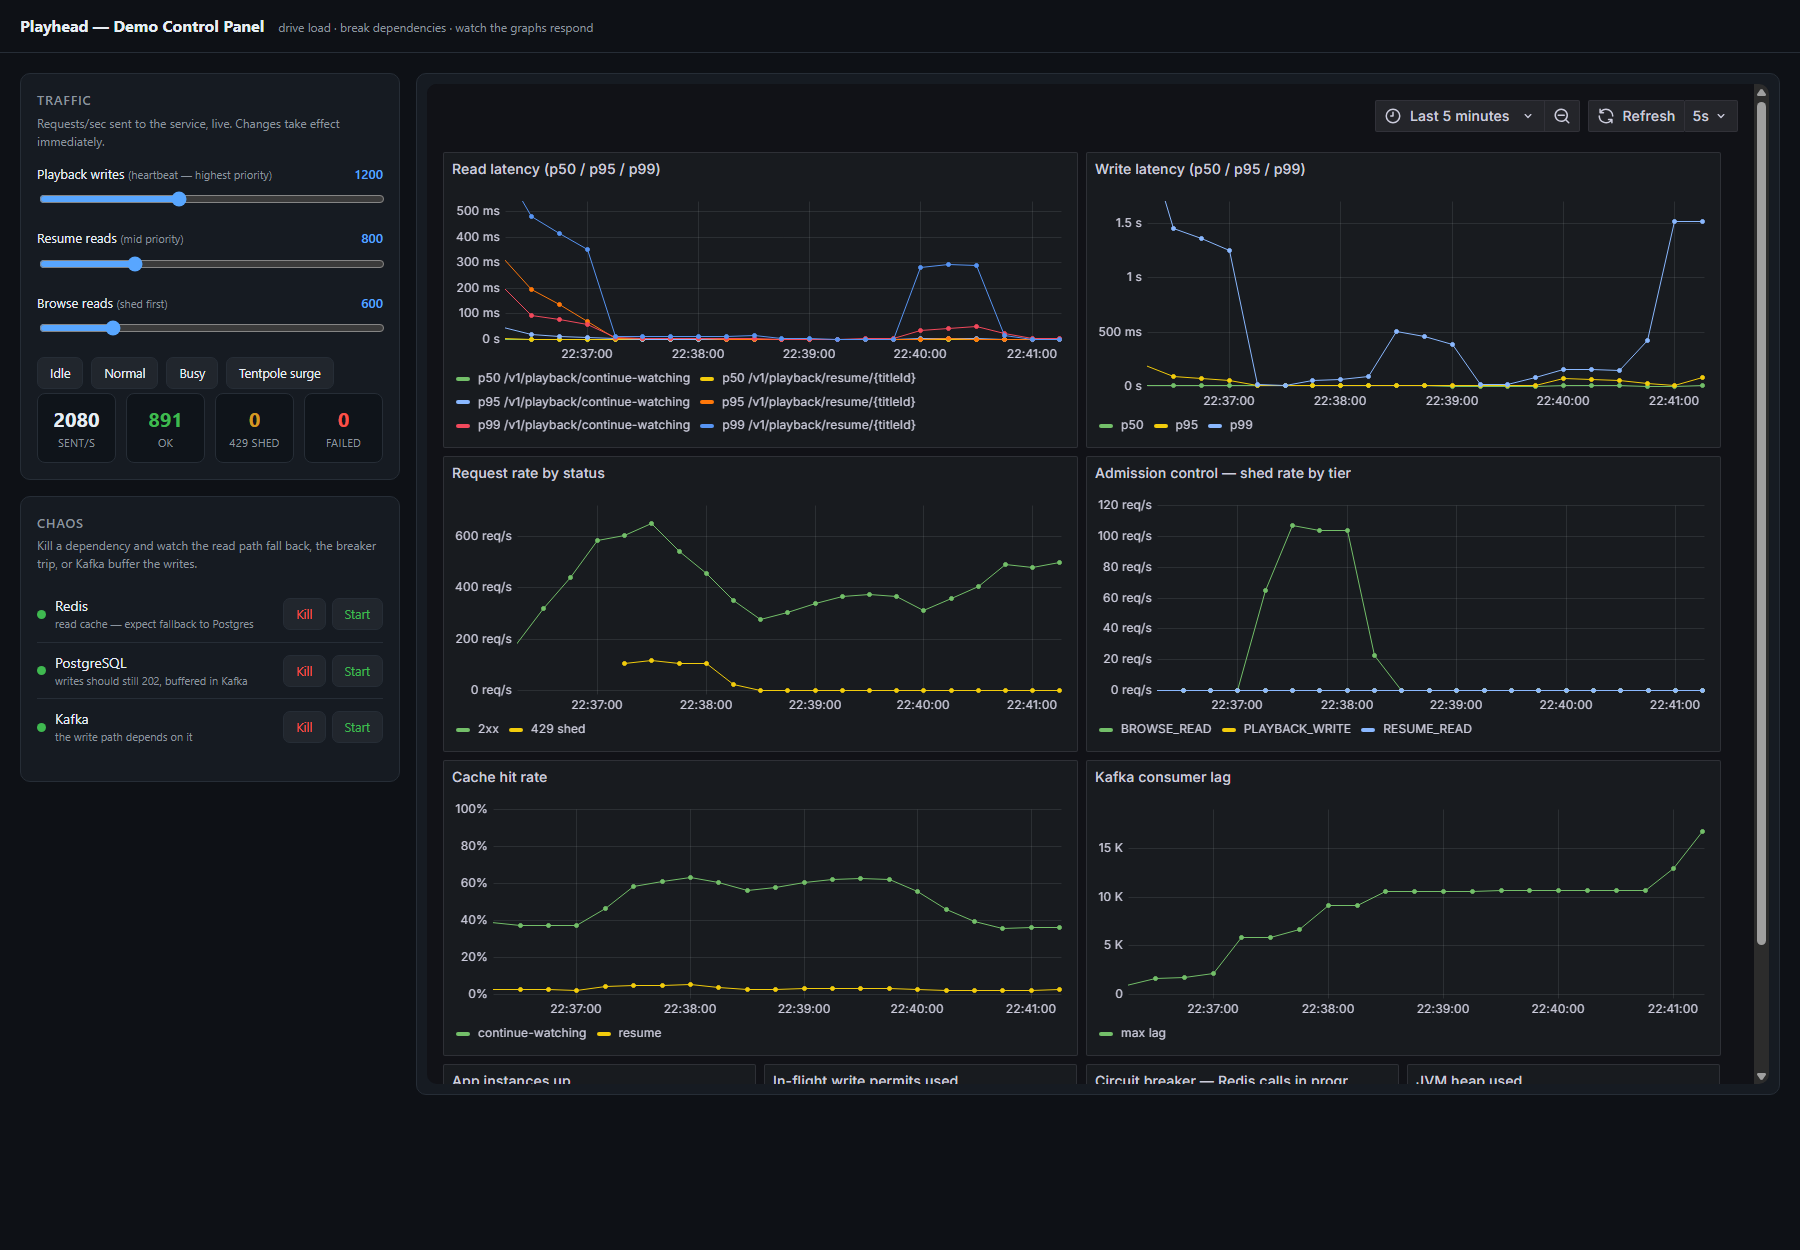
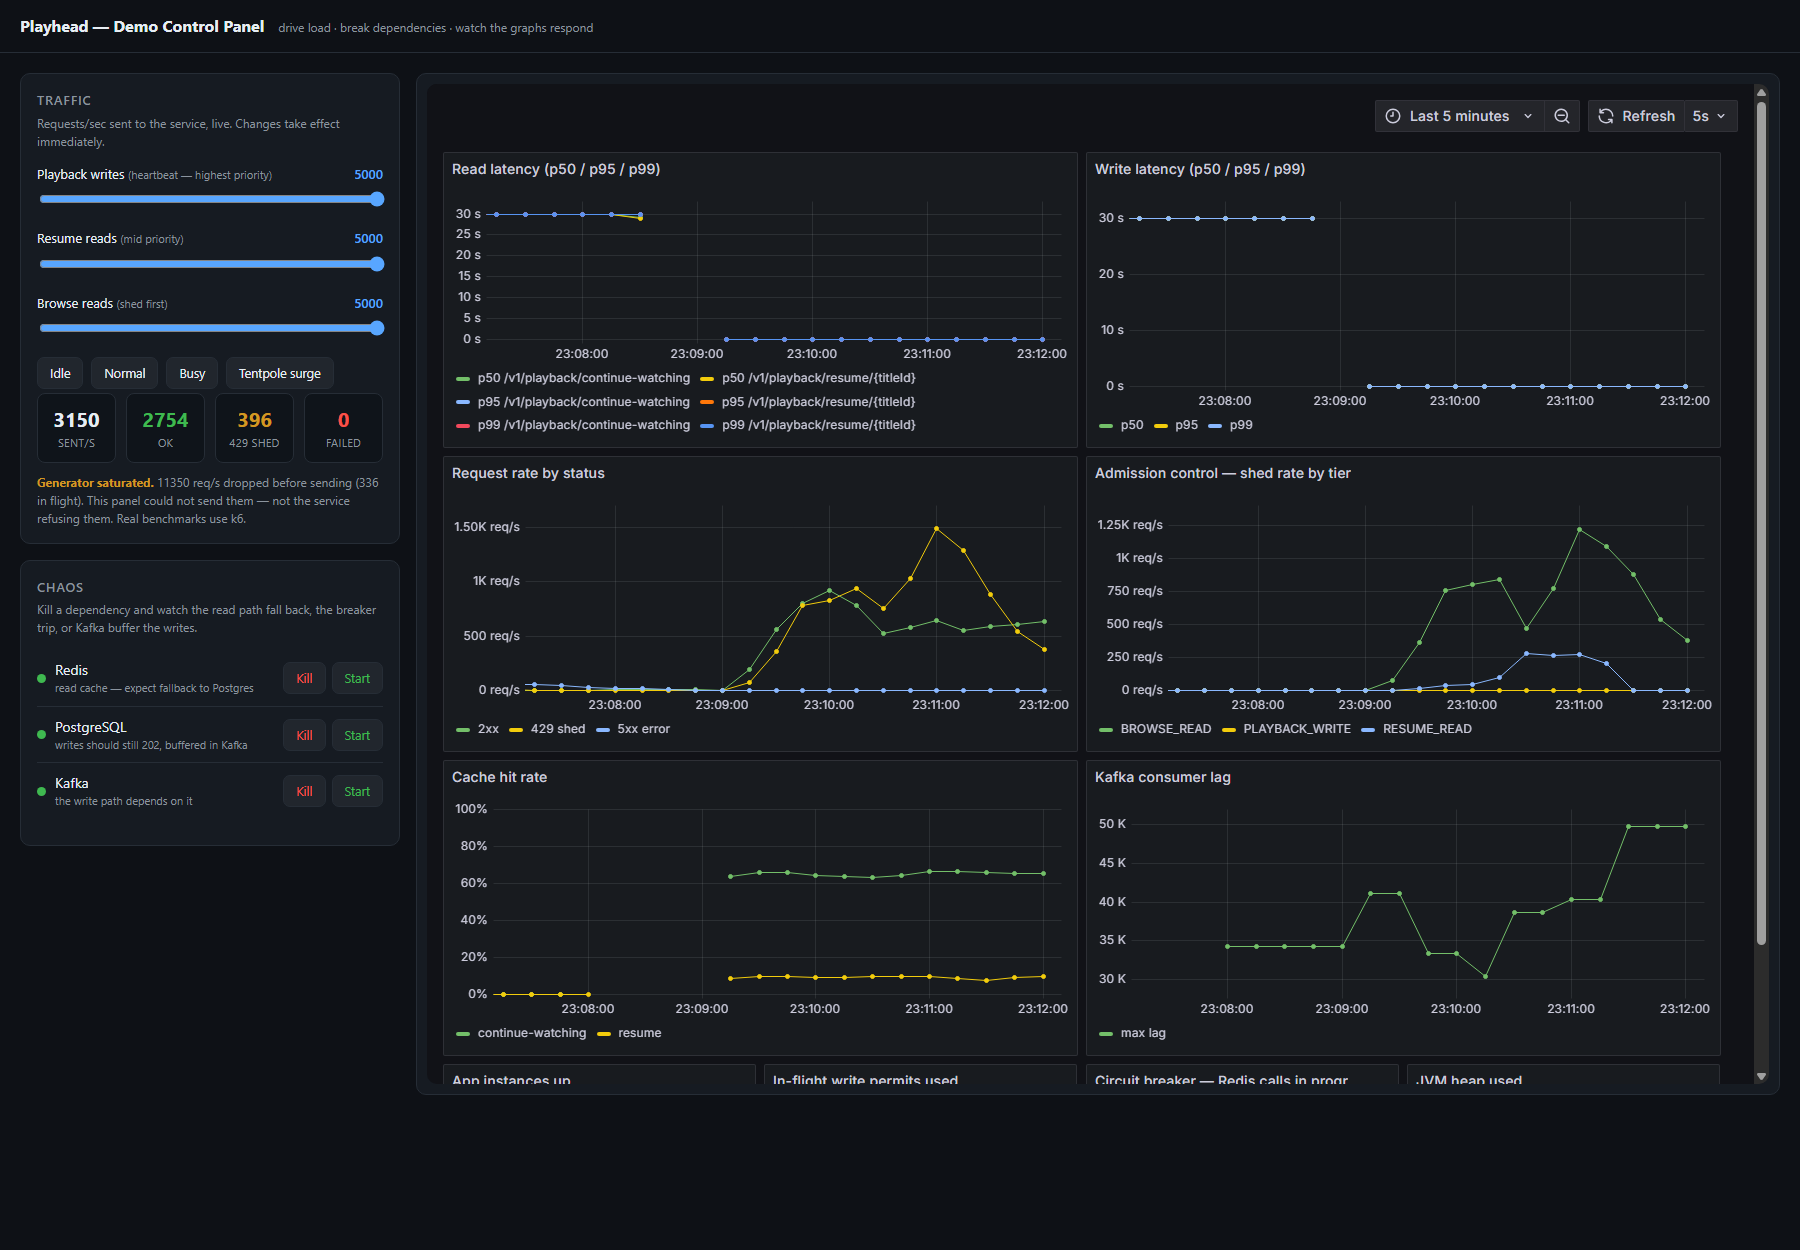
Raise demo sliders to 5k/tier, and give the generator backpressure
Raising the sliders exposed a real bug in the generator: it fired at the
requested rate regardless of whether responses were coming back, so at 15,000
req/s pending requests accumulated until the panel process aborted with
"JavaScript heap out of memory" at a 4 GB heap. It took the stack with it -
Kafka, Postgres and Redis were all SIGKILLed (exit 137, oom flag false, so the
WSL2 VM's kernel rather than any per-container limit) under the memory pressure.

The generator now has the same kind of in-flight cap the service has, for the
same reason. Requests past the cap are dropped and counted as `skipped`, kept
deliberately separate from `shed`: skipped means this panel could not send it,
shed means the service refused it. Merging them would let generator saturation
read as admission control working, which is exactly the number a demo must not
get wrong. The panel surfaces the distinction explicitly when it saturates.

The cap needed sizing, not just adding. 3,000 was the first value and it was
worse than useless - every slot filled with a request the saturated service
would take seconds to answer, so slots never turned over, throughput fell to
zero and latency pinned at the timeout. The panel showed a jammed system rather
than a shedding one. 500 is sized from Little's Law against what this machine
actually serves, and traffic flows.

Verified at the full 15,000 req/s that previously killed everything: 3,150
[…]

diff --git a/demo/server.js b/demo/server.js
@@ -51,19 +51,57 @@ const pick = (a) => a[Math.floor(Math.random() * a.length)];
 /** Live target rates, in requests/sec. Changed by the slider, read by the tickers. */
 const rates = { write: 0, resume: 0, browse: 0 };
 
+/**
+ * The generator needs the same backpressure the service has, for the same reason.
+ *
+ * Without this the tickers keep firing at the requested rate regardless of whether responses are
+ * coming back, so when the target saturates, pending requests pile up in Node's heap until it dies.
+ * That is exactly what happened at 15,000 req/s: the panel process aborted with "JavaScript heap
+ * out of memory" after climbing to a 4 GB heap, and took the demo down with it.
+ *
+ * Requests beyond the cap are dropped and counted as `skipped` rather than queued. Counting them
+ * separately matters: `skipped` means *this panel* could not send it, `shed` means the *service*
+ * refused it. Merging the two would make generator saturation look like admission control working.
+ */
+/*
+ * 3,000 was the first value and it was too high to be useful: every slot filled with a request the
+ * saturated service would take seconds to answer, so slots never freed, throughput fell to zero and
+ * latency pinned at the timeout. The panel showed a jammed system rather than a shedding one.
+ *
+ * 500 is sized from Little's Law against what this machine actually serves — a few thousand
+ * requests/sec at tens of milliseconds — so slots turn over fast enough that traffic keeps flowing
+ * and the service's own 429s stay visible, which is the behaviour worth watching.
+ */
+const MAX_IN_FLIGHT = 500;
+let inFlight = 0;
+
 /** Rolling counts, reset each second, so the panel can show what it is actually achieving. */
-let counters = { sent: 0, ok: 0, shed: 0, failed: 0 };
-let lastSecond = { sent: 0, ok: 0, shed: 0, failed: 0 };
+let counters = { sent: 0, ok: 0, shed: 0, failed: 0, skipped: 0 };
+let lastSecond = { sent: 0, ok: 0, shed: 0, failed: 0, skipped: 0 };
 
 function fire(options, body) {
+  if (inFlight >= MAX_IN_FLIGHT) {
+    counters.skipped++;
+    return;
+  }
   counters.sent++;
+  inFlight++;
+
+  let settled = false;
+  const done = (bucket) => {
+    if (settled) return; // an error after a response would double-count and desync inFlight
+    settled = true;
+    inFlight--;
+    counters[bucket]++;
+  };
+
   const req = http.request({ ...options, agent, host: TARGET.host, port: TARGET.port }, (res) => {
-    if (res.statusCode === 429) counters.shed++;
-    else if (res.statusCode >= 200 && res.statusCode < 400) counters.ok++;
-    else counters.failed++;
+    if (res.statusCode === 429) done('shed');
+    else if (res.statusCode >= 200 && res.statusCode < 400) done('ok');
+    else done('failed');
     res.resume(); // drain, or sockets are never released back to the pool
   });
-  req.on('error', () => counters.failed++);
+  req.on('error', () => done('failed'));
   req.setTimeout(10000, () => req.destroy());
   if (body) req.write(body);
   req.end();
@@ -118,7 +156,7 @@ startTicker('browse', sendBrowse);
 
 setInterval(() => {
   lastSecond = counters;
-  counters = { sent: 0, ok: 0, shed: 0, failed: 0 };
+  counters = { sent: 0, ok: 0, shed: 0, failed: 0, skipped: 0 };
 }, 1000);
 
 function docker(args) {
@@ -167,7 +205,7 @@ const server = http.createServer(async (req, res) => {
   }
 
   if (url.pathname === '/api/status') {
-    return json(res, 200, { rates, lastSecond, containers: await containerStates() });
+    return json(res, 200, { rates, lastSecond, inFlight, containers: await containerStates() });
   }
 
   if (url.pathname === '/api/load' && req.method === 'POST') {

diff --git a/demo/public/index.html b/demo/public/index.html
@@ -67,22 +67,22 @@
 
       <div class="slider">
         <label><span>Playback writes <span class="cap">(heartbeat — highest priority)</span></span><span class="val" id="v-write">0</span></label>
-        <input type="range" id="s-write" min="0" max="3000" step="25" value="0">
+        <input type="range" id="s-write" min="0" max="5000" step="50" value="0">
       </div>
       <div class="slider">
         <label><span>Resume reads <span class="cap">(mid priority)</span></span><span class="val" id="v-resume">0</span></label>
-        <input type="range" id="s-resume" min="0" max="3000" step="25" value="0">
+        <input type="range" id="s-resume" min="0" max="5000" step="50" value="0">
       </div>
       <div class="slider">
         <label><span>Browse reads <span class="cap">(shed first)</span></span><span class="val" id="v-browse">0</span></label>
-        <input type="range" id="s-browse" min="0" max="3000" step="25" value="0">
+        <input type="range" id="s-browse" min="0" max="5000" step="50" value="0">
       </div>
 
       <div class="presets">
         <button onclick="preset(0,0,0)">Idle</button>
         <button onclick="preset(400,200,80)">Normal</button>
         <button onclick="preset(1500,900,400)">Busy</button>
-        <button onclick="preset(3000,3000,3000)">Tentpole surge</button>
+        <button onclick="preset(5000,5000,5000)">Tentpole surge</button>
       </div>
 
       <div class="stats">
@@ -91,6 +91,11 @@
         <div class="stat"><div class="n" id="n-shed" style="color:var(--shed)">0</div><div class="k">429 shed</div></div>
         <div class="stat"><div class="n" id="n-failed" style="color:var(--bad)">0</div><div class="k">failed</div></div>
       </div>
+      <p class="hint" id="genwarn" style="margin:10px 0 0;display:none">
+        <b style="color:var(--shed)">Generator saturated.</b>
+        <span id="genwarn-text"></span>
+        This panel could not send them — not the service refusing them. Real benchmarks use k6.
+      </p>
     </div>
 
     <div class="card" style="margin-top:16px">
@@ -186,6 +191,11 @@ async function refresh() {
     $('n-ok').textContent = s.lastSecond.ok;
     $('n-shed').textContent = s.lastSecond.shed;
     $('n-failed').textContent = s.lastSecond.failed;
+
+    const skipped = s.lastSecond.skipped || 0;
+    $('genwarn').style.display = skipped > 0 ? 'block' : 'none';
+    $('genwarn-text').textContent =
+      `${skipped} req/s dropped before sending (${s.inFlight} in flight).`;
     for (const d of DEPS) {
       const dot = $('dot-' + d.key);
       dot.className = 'dot ' + (s.containers[d.key] || '');
